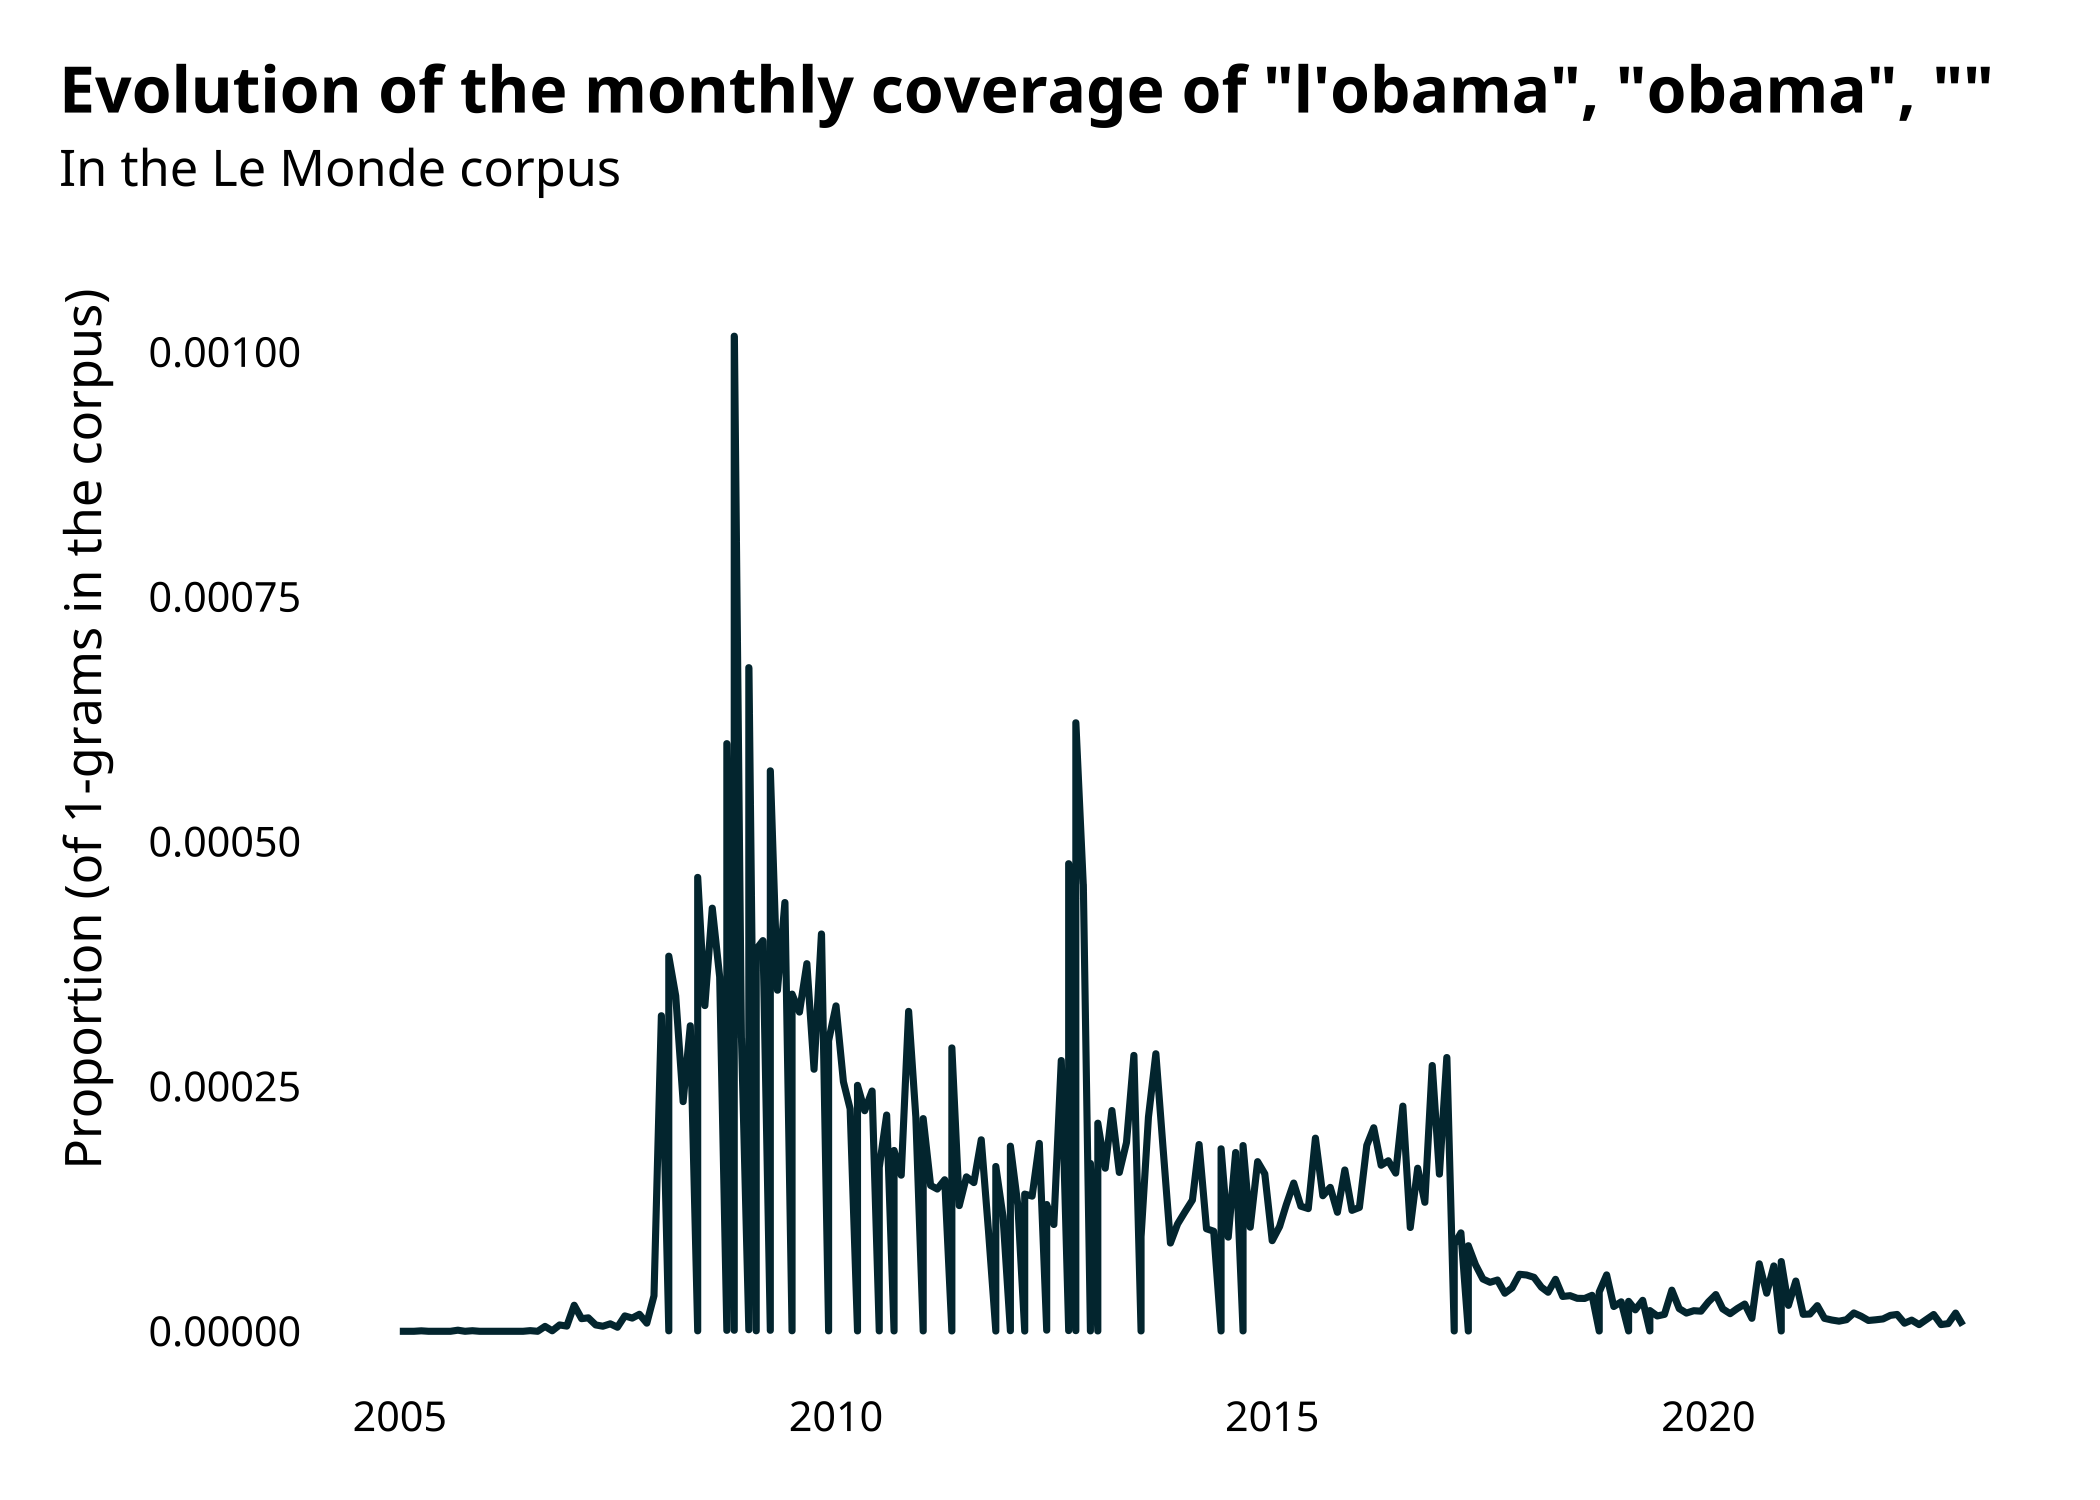
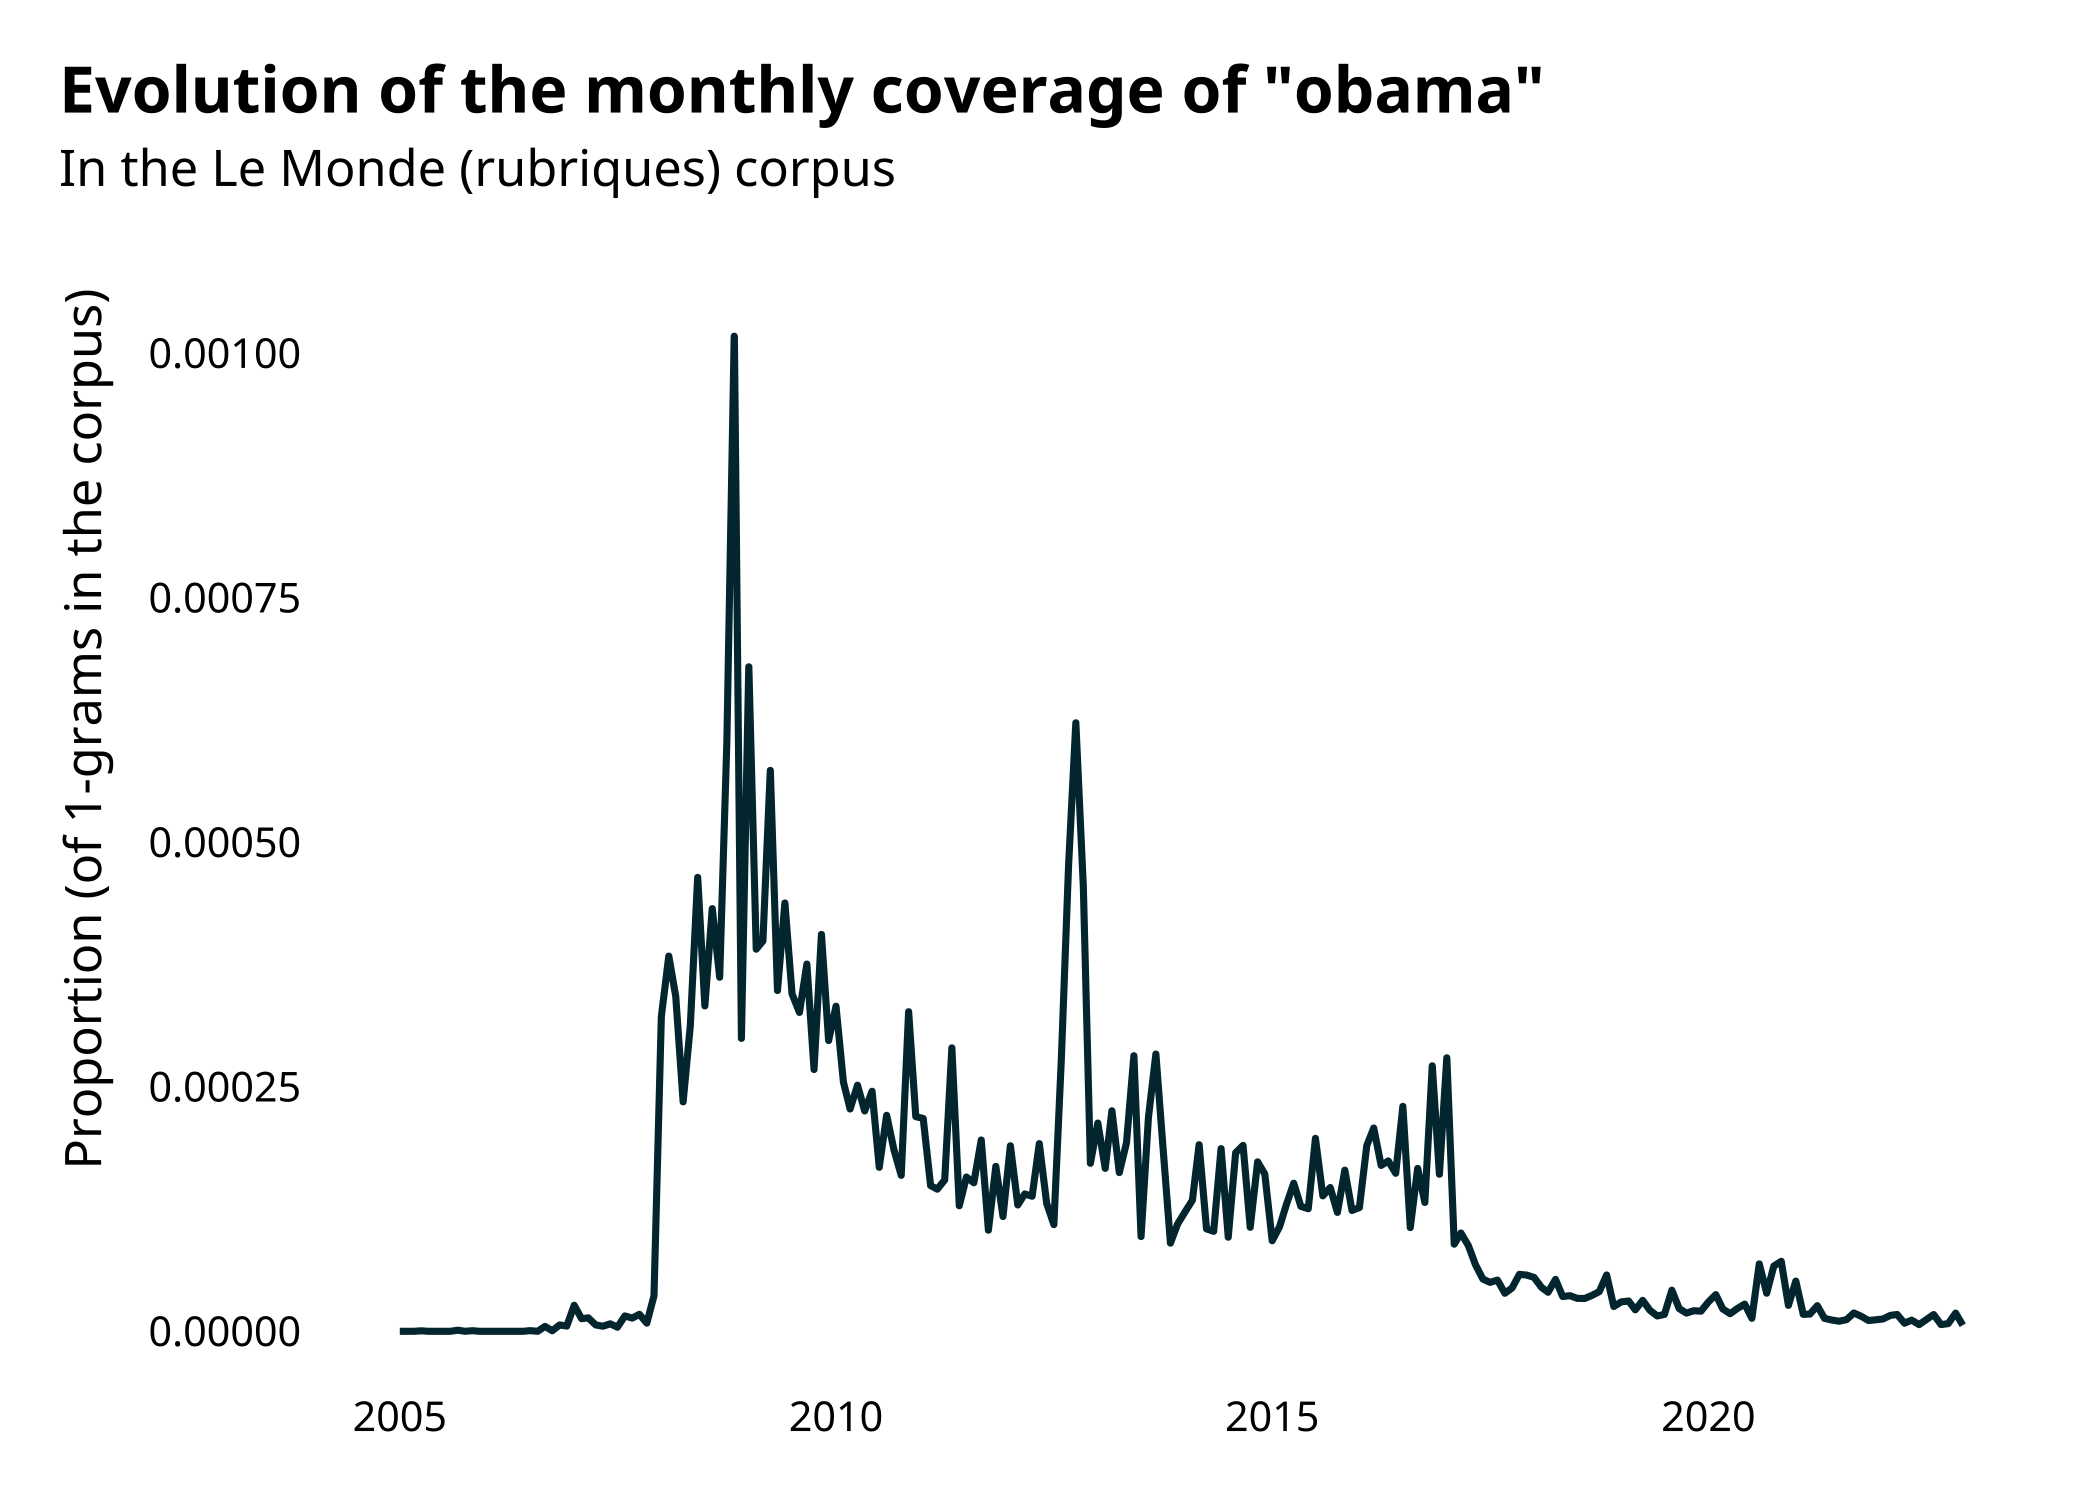
Adjusting to some API updates (_ngram routes mostly)

diff --git a/README.md b/README.md
@@ -67,80 +67,79 @@ with a keyword. The corresponding functions are described in the
 
 The corpora available via Gallicagram are:
 
-| Corpus | Corpus Name | Reliable From | Reliable To | Nb Words | Max Length | Resolution |
-|:---|:---|---:|---:|:---|---:|:---|
-| lemonde_rubriques | Le Monde (rubriques) | 1945 | 2024 | 1.5e+09 | 4 | monthly |
-| presse | Presse de Gallica | 1789 | 1950 | 5.7e+10 | 3 | monthly |
-| livres | Livres de Gallica | 1700 | 1940 | 1.6e+10 | 5 | yearly |
-| presse_livres | Presse + livres de Gallica | 1789 | 1940 | 7.3e+10 | 3 | yearly |
-| ddb | Deutsches Zeitungsportal (DDB) | 1780 | 1950 | 3.9e+10 | 2 | monthly |
-| american_stories | American Stories | 1798 | 1963 | 2e+10 | 3 | yearly |
-| guardian | The Guardian | 1999 | 2026 | 2e+09 | 2 | daily |
-| paris | Journal de Paris | 1777 | 1827 | 8.6e+07 | 2 | daily |
-| moniteur | Moniteur Universel | 1789 | 1869 | 5.11e+08 | 2 | daily |
-| journal_des_debats | Journal des Débats | 1789 | 1944 | 1.2e+09 | 1 | daily |
-| la_presse | La Presse | 1836 | 1869 | 2.53e+08 | 2 | daily |
-| constitutionnel | Le Constitutionnel | 1821 | 1913 | 6.4e+07 | 2 | daily |
-| figaro | Le Figaro | 1854 | 1952 | 8.7e+08 | 2 | daily |
-| temps | Le Temps | 1861 | 1942 | 1e+09 | 2 | daily |
-| petit_journal | Le Petit Journal | 1863 | 1942 | 7.45e+08 | 2 | daily |
-| journal_officiel | Journal officiel | 1869 | 1952 | 8.42e+08 | 1 | daily |
-| petit_parisien | Le Petit Parisien | 1876 | 1944 | 6.31e+08 | 2 | daily |
-| huma | L’Humanité | 1904 | 1952 | 3.18e+08 | 2 | daily |
-| subtitles | Opensubtitles (français) | 1935 | 2020 | 1.7e+07 | 3 | yearly |
-| subtitles_en | Opensubtitles (anglais) | 1930 | 2020 | 1.02e+08 | 3 | yearly |
-| rap | Rap français (Genius) | 1995 | 2024 | 2e+07 | 5 | yearly |
-| persee | Persée | 1930 | 2023 | 1e+09 | 2 | yearly |
-| route à part (query_cairn) | Cairn | 2001 | 2025 | \- | 3 | yearly |
-| route à part (persee+cairn) | Persée + Cairn | 1930 | 2025 | \- | 2 | yearly |
-| tv_bfmtv | BFM TV (transcriptions) | 2026 | 2026 | \- | 3 | daily |
-| tv_cnews | CNews (transcriptions) | 2026 | 2026 | \- | 3 | daily |
-| tv_franceinfo | France Info (transcriptions) | 2026 | 2026 | \- | 3 | daily |
-| ouest | Ouest-France (Gallica) | 1899 | 2025 | \- | 2 | yearly |
-| prenoms | Prénoms INSEE | 1900 | 2024 | \- | 1 | yearly |
-| jorf | Journal officiel (JORF) | 1990 | 2026 | 5.9e+08 | 2 | monthly |
-| libe | Libération | 1998 | 2025 | \- | 3 | daily |
-| majinbook | \# Majinbook français | 1700 | 2023 | \- | 4 | yearly |
-| spa_majinbook | \# Majinbook espagnol | 1700 | 2023 | \- | 4 | yearly |
-| eng_majinbook | \# Majinbook anglais | 1700 | 2023 | \- | 2 | yearly |
-| deu_majinbook | \# Majinbook allemand | 1700 | 2023 | \- | 4 | yearly |
-| presse_moderne | Presse contemporaine (toutes) | 2008 | 2026 | \- | 2 | daily |
-| 20minutes | 20 Minutes | 2006 | 2026 | \- | 2 | daily |
-| bfmtv | BFM TV | 2012 | 2026 | \- | 2 | daily |
-| challenges | Challenges | 2006 | 2026 | \- | 2 | daily |
-| cnews | CNews | 2012 | 2026 | \- | 2 | daily |
-| francesoir | France Soir | 2015 | 2026 | \- | 2 | daily |
-| gala | Gala | 2008 | 2026 | \- | 2 | daily |
-| l_opinion | L’Opinion | 2013 | 2026 | \- | 2 | daily |
-| lacroix | La Croix | 1995 | 2024 | \- | 3 | monthly |
-| la_depeche | La Dépêche | 2012 | 2026 | \- | 2 | daily |
-| laprovence | La Provence | 2014 | 2026 | \- | 2 | daily |
-| latribune | La Tribune | 2015 | 2026 | \- | 2 | daily |
-| le_capital | Le Capital | 2009 | 2026 | \- | 2 | daily |
-| le_courrier_de_l_ouest | Le Courrier de l’Ouest | 2019 | 2026 | \- | 2 | daily |
-| le_figaro | Le Figaro (web) | 2006 | 2026 | \- | 2 | daily |
-| le_journal_du_dimanche | Le Journal du Dimanche | 2008 | 2026 | \- | 2 | daily |
-| le_maine_libre | Le Maine Libre | 2019 | 2026 | \- | 2 | daily |
-| le_marin | Le Marin | 2013 | 2026 | \- | 2 | daily |
-| le_monde | Le Monde | 1945 | 2026 | \- | 2 | daily |
-| le_nouvel_observateur | Le Nouvel Observateur | 2010 | 2026 | \- | 2 | daily |
-| le_telegramme | Le Télégramme | 2009 | 2011 | \- | 2 | daily |
-| leparisien | Le Parisien | 2001 | 2024 | \- | 2 | monthly |
-| les_echos | Les Échos | 1991 | 2026 | \- | 2 | daily |
-| marianne | Marianne | 2019 | 2026 | \- | 2 | daily |
-| mediapart | Mediapart | 2008 | 2026 | \- | 2 | daily |
-| midilibre | Midi Libre | 2011 | 2026 | \- | 2 | daily |
-| nice_matin | Nice-Matin | 2015 | 2026 | \- | 2 | daily |
-| ouest_france | Ouest-France | 2012 | 2026 | \- | 2 | daily |
-| paris_match | Paris Match | 2009 | 2026 | \- | 2 | daily |
-| paris_normandie | Paris Normandie | 2021 | 2026 | \- | 2 | daily |
-| presse_ocean | Presse Océan | 2019 | 2026 | \- | 2 | daily |
-| sud_ouest | Sud Ouest | 2010 | 2017 | \- | 2 | daily |
-| telerama | Télérama | 2008 | 2026 | \- | 2 | daily |
-| valeurs_actuelles | Valeurs Actuelles | 2008 | 2025 | \- | 2 | daily |
-| voici | Voici | 2018 | 2026 | \- | 2 | daily |
-| voiles_et_voiliers | Voiles et Voiliers | 2009 | 2026 | \- | 2 | daily |
-| lemonde | Le Monde | 1945 | 2026 | \- | 2 | daily |
+| Corpus | Corpus Name | Reliable From | Reliable To | Nb Words | Max Length | Resolution | Available Func |
+|:---|:---|---:|---:|:---|---:|:---|:---|
+| lemonde | Le Monde (rubriques) | 1945 | 2024 | 1.5e+09 | 4 | monthly | article\|cooccurr_article\|associated_article\|with\|associated |
+| presse | Presse de Gallica | 1789 | 1950 | 5.7e+10 | 3 | monthly | cooccurr\|with\|associated |
+| livres | Livres de Gallica | 1700 | 1940 | 1.6e+10 | 5 | yearly | cooccurr\|with\|associated |
+| presse_livres | Presse + livres de Gallica | 1789 | 1940 | 7.3e+10 | 3 | yearly | NA |
+| ddb | Deutsches Zeitungsportal (DDB) | 1780 | 1950 | 3.9e+10 | 2 | monthly | with\|associated |
+| american_stories | American Stories | 1798 | 1963 | 2e+10 | 3 | yearly | with\|associated |
+| guardian | The Guardian | 1999 | 2026 | 2e+09 | 2 | daily | with\|associated |
+| paris | Journal de Paris | 1777 | 1827 | 8.6e+07 | 2 | daily | cooccurr\|with\|associated |
+| moniteur | Moniteur Universel | 1789 | 1869 | 5.11e+08 | 2 | daily | cooccurr\|with\|associated |
+| journal_des_debats | Journal des Débats | 1789 | 1944 | 1.2e+09 | 1 | daily | cooccurr |
+| la_presse | La Presse | 1836 | 1869 | 2.53e+08 | 2 | daily | cooccurr |
+| constitutionnel | Le Constitutionnel | 1821 | 1913 | 6.4e+07 | 2 | daily | cooccurr |
+| figaro | Le Figaro | 1854 | 1952 | 8.7e+08 | 2 | daily | cooccurr\|with\|associated |
+| temps | Le Temps | 1861 | 1942 | 1e+09 | 2 | daily | cooccurr\|with\|associated |
+| petit_journal | Le Petit Journal | 1863 | 1942 | 7.45e+08 | 2 | daily | cooccurr\|with\|associated |
+| journal_officiel | Journal officiel | 1869 | 1952 | 8.42e+08 | 1 | daily | cooccurr |
+| petit_parisien | Le Petit Parisien | 1876 | 1944 | 6.31e+08 | 2 | daily | cooccurr\|with\|associated |
+| huma | L’Humanité | 1904 | 1952 | 3.18e+08 | 2 | daily | cooccurr\|with\|associated |
+| subtitles | Opensubtitles (français) | 1935 | 2020 | 1.7e+07 | 3 | yearly | with\|associated |
+| subtitles_en | Opensubtitles (anglais) | 1930 | 2020 | 1.02e+08 | 3 | yearly | with\|associated |
+| rap | Rap français (Genius) | 1995 | 2024 | 2e+07 | 5 | yearly | with\|associated |
+| persee | Persée | 1930 | 2023 | 1e+09 | 2 | yearly | with\|associated |
+| route à part (query_cairn) | Cairn | 2001 | 2025 | \- | 3 | yearly | with\|associated |
+| route à part (persee+cairn) | Persée + Cairn | 1930 | 2025 | \- | 2 | yearly | NA |
+| tv_bfmtv | BFM TV (transcriptions) | 2026 | 2026 | \- | 3 | daily | with\|associated |
+| tv_cnews | CNews (transcriptions) | 2026 | 2026 | \- | 3 | daily | with\|associated |
+| tv_franceinfo | France Info (transcriptions) | 2026 | 2026 | \- | 3 | daily | with\|associated |
+| ouest | Ouest-France (Gallica) | 1899 | 2025 | \- | 2 | yearly | NA |
+| prenoms | Prénoms INSEE | 1900 | 2024 | \- | 1 | yearly | NA |
+| jorf | Journal officiel (JORF) | 1990 | 2026 | 5.9e+08 | 2 | monthly | with\|associated |
+| libe | Libération | 1998 | 2025 | \- | 3 | daily | with\|associated |
+| majinbook | \# Majinbook français | 1700 | 2023 | \- | 4 | yearly | with\|associated |
+| spa_majinbook | \# Majinbook espagnol | 1700 | 2023 | \- | 4 | yearly | with\|associated |
+| eng_majinbook | \# Majinbook anglais | 1700 | 2023 | \- | 2 | yearly | with\|associated |
+| deu_majinbook | \# Majinbook allemand | 1700 | 2023 | \- | 4 | yearly | with\|associated |
+| presse_moderne | Presse contemporaine (toutes) | 2008 | 2026 | \- | 2 | daily | NA |
+| 20minutes | 20 Minutes | 2006 | 2026 | \- | 2 | daily | with\|associated |
+| bfmtv | BFM TV | 2012 | 2026 | \- | 2 | daily | with\|associated |
+| challenges | Challenges | 2006 | 2026 | \- | 2 | daily | with\|associated |
+| cnews | CNews | 2012 | 2026 | \- | 2 | daily | with\|associated |
+| francesoir | France Soir | 2015 | 2026 | \- | 2 | daily | with\|associated |
+| gala | Gala | 2008 | 2026 | \- | 2 | daily | with\|associated |
+| l_opinion | L’Opinion | 2013 | 2026 | \- | 2 | daily | with\|associated |
+| lacroix | La Croix | 1995 | 2024 | \- | 3 | monthly | with\|associated |
+| la_depeche | La Dépêche | 2012 | 2026 | \- | 2 | daily | with\|associated |
+| laprovence | La Provence | 2014 | 2026 | \- | 2 | daily | with\|associated |
+| latribune | La Tribune | 2015 | 2026 | \- | 2 | daily | with\|associated |
+| le_capital | Le Capital | 2009 | 2026 | \- | 2 | daily | with\|associated |
+| le_courrier_de_l_ouest | Le Courrier de l’Ouest | 2019 | 2026 | \- | 2 | daily | with\|associated |
+| le_figaro | Le Figaro (web) | 2006 | 2026 | \- | 2 | daily | with\|associated |
+| le_journal_du_dimanche | Le Journal du Dimanche | 2008 | 2026 | \- | 2 | daily | with\|associated |
+| le_maine_libre | Le Maine Libre | 2019 | 2026 | \- | 2 | daily | with\|associated |
+| le_marin | Le Marin | 2013 | 2026 | \- | 2 | daily | with\|associated |
+| le_monde | Le Monde | 1945 | 2026 | \- | 2 | daily | with\|associated |
+| le_nouvel_observateur | Le Nouvel Observateur | 2010 | 2026 | \- | 2 | daily | with\|associated |
+| le_telegramme | Le Télégramme | 2009 | 2011 | \- | 2 | daily | with\|associated |
+| leparisien | Le Parisien | 2001 | 2024 | \- | 2 | monthly | with\|associated |
+| les_echos | Les Échos | 1991 | 2026 | \- | 2 | daily | with\|associated |
+| marianne | Marianne | 2019 | 2026 | \- | 2 | daily | with\|associated |
+| mediapart | Mediapart | 2008 | 2026 | \- | 2 | daily | with\|associated |
+| midilibre | Midi Libre | 2011 | 2026 | \- | 2 | daily | with\|associated |
+| nice_matin | Nice-Matin | 2015 | 2026 | \- | 2 | daily | with\|associated |
+| ouest_france | Ouest-France | 2012 | 2026 | \- | 2 | daily | with\|associated |
+| paris_match | Paris Match | 2009 | 2026 | \- | 2 | daily | with\|associated |
+| paris_normandie | Paris Normandie | 2021 | 2026 | \- | 2 | daily | with\|associated |
+| presse_ocean | Presse Océan | 2019 | 2026 | \- | 2 | daily | with\|associated |
+| sud_ouest | Sud Ouest | 2010 | 2017 | \- | 2 | daily | with\|associated |
+| telerama | Télérama | 2008 | 2026 | \- | 2 | daily | with\|associated |
+| valeurs_actuelles | Valeurs Actuelles | 2008 | 2025 | \- | 2 | daily | with\|associated |
+| voici | Voici | 2018 | 2026 | \- | 2 | daily | with\|associated |
+| voiles_et_voiliers | Voiles et Voiliers | 2009 | 2026 | \- | 2 | daily | with\|associated |
 
 Additional information on Gallicagram can be found on a
 [preprint](https://osf.io/preprints/socarxiv/84bf3/) by Gallicagram
